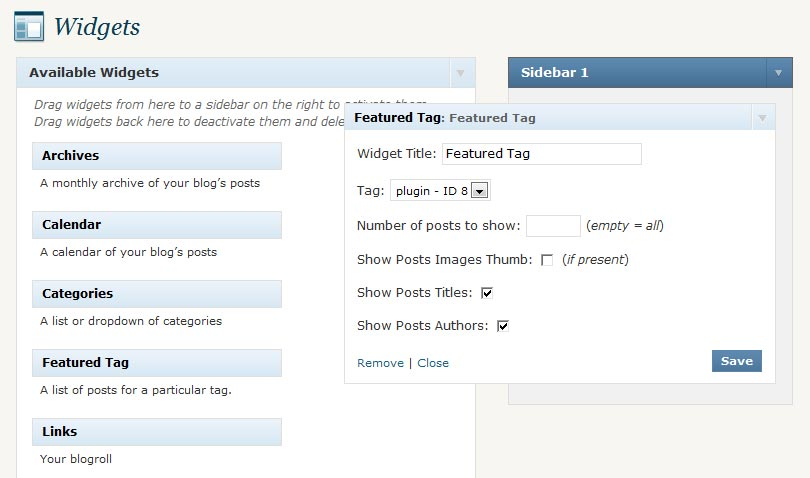
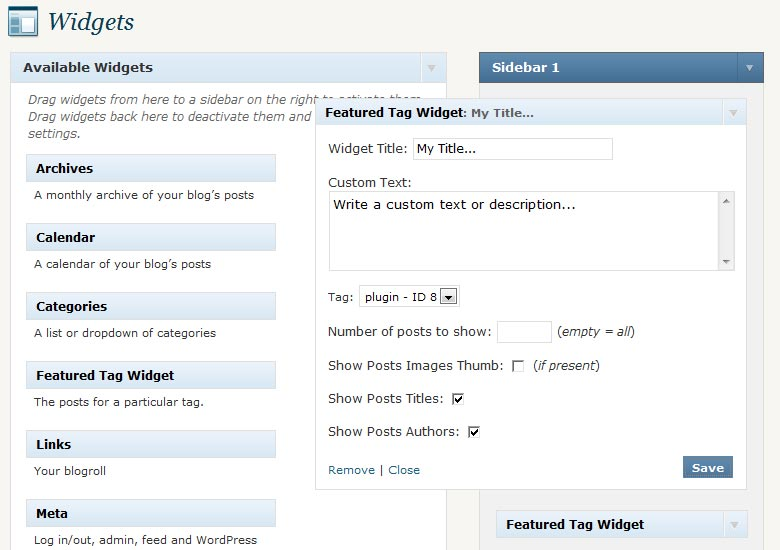
git-svn-id: https://plugins.svn.wordpress.org/featured-tag-widget/trunk@186028 b8457f37-d9ea-0310-8a92-e5e31aec5664

diff --git a/featured-tag-widget.php b/featured-tag-widget.php
@@ -2,9 +2,9 @@
 /*
 Plugin Name: Featured Tag Widget
 Plugin URI: http://wordpress.org/extend/plugins/featured-tag-widget/
-Description: This widget plugin shows a list of posts for a particular Tag in your sidebar. You can also add multiple instances of this widget. This plugin gives you full control on the widget with these options: custom widget Title (or no Title), the Featured Tag selection (obviously required), how many posts for the featured Tag to show for each instance of the widget, the posts informations to show (image thumbnail, title, author). 
+Description: This widget plugin shows a list of posts for a particular Tag in your sidebar with many options. You can also add multiple instances of this widget. This plugin gives you full control on the widget with these options: custom widget Title (or no Title), custom text for the description of the content or whatever, the Featured Tag selection (obviously required to show posts content), how many posts for the featured Tag to show for each instance of the widget, the posts informations to show (image thumbnail, title, author). 
 Author: Andrea Developer
-Version: 0.6
+Version: 0.7
 Author URI: http://wordpress.org/extend/plugins/featured-tag-widget/
 
 This program is free software; you can redistribute it and/or
@@ -43,7 +43,8 @@ function widget_ftwp( $args, $widget_args = 1 ) {
         if ( !isset($options[$number]) )
                 return;
 
-        $featuredtag = $options[$number]['tag'];
+        $customtext = $options[$number]['customtext'];
+		$featuredtag = $options[$number]['tag'];
 		//$nposts = $options[$number]['nposts'];
         $nposts = empty($options[$number]['nposts']) ? __('-1') : $options[$number]['nposts'];		
 		$showimage = $options[$number]['showimage'];
@@ -58,13 +59,18 @@ function widget_ftwp( $args, $widget_args = 1 ) {
 
 		//-------------------------------------------------- *  The loop START
 			  
-			  echo $before_widget;
+			  //echo $before_widget;
                if ($title){ 
 					echo $before_title . $title . $after_title .'';
-               } 			  
+               } 			
+			   
+            // write Custom Text Area    
+			if ($customtext){ ?>
+				<div class="featured_tag_post"><?php echo $customtext; ?><br /><br /></div>
+			  <?php } 		   
 			  		  		  		  
 			// set $my_tag as featured tag
-			$all_tags = get_tags(); 
+			 $all_tags = get_tags(); 
 				foreach($all_tags as $the_tag):
 					if ($the_tag->term_id==$featuredtag) {
 					   $my_tag = $the_tag->slug;				   
@@ -90,7 +96,7 @@ function widget_ftwp( $args, $widget_args = 1 ) {
                         <?php if ($showauthor){ ?>
                             <span class="byline"><em><?php the_author_posts_link(); ?></em></span><br />
                         <?php } ?>
-                        <br />             
+                        <br />         
                     </div>
 				<?php } ?>
 
@@ -100,7 +106,7 @@ function widget_ftwp( $args, $widget_args = 1 ) {
               
            
           <?php
-          echo $after_widget;
+          //echo $after_widget;
 		  
 		//-------------------------------------------------- *  The loop END
 }
@@ -151,15 +157,17 @@ function widget_ftwp_control( $widget_args = 1 ) {
                         // compile data from $widget_ftwp_instance
                         if ( !isset($widget_ftwp_instance['tag']) && isset($options[$widget_number]) ) // user clicked cancel
                                 continue;
-                        $featuredtag = wp_specialchars( $widget_ftwp_instance['tag'] );
-                        $title = strip_tags(stripslashes($widget_ftwp_instance['title'])); 										 
+                        
+                        $title = strip_tags(stripslashes($widget_ftwp_instance['title'])); 
+						$customtext = strip_tags(stripslashes($widget_ftwp_instance['customtext'])); 
+						$featuredtag = wp_specialchars( $widget_ftwp_instance['tag'] );
 						$nposts = $widget_ftwp_instance['nposts'];	
 						$nposts = preg_replace("/[^0-9]/i", "", $nposts);  // numbers only
 						$showimage = isset( $widget_ftwp_instance['showimage'] ) ? $widget_ftwp_instance['showimage'] : 0;
 						$showtitle = isset( $widget_ftwp_instance['showtitle'] ) ? $widget_ftwp_instance['showtitle'] : 0;	
 						$showauthor = isset( $widget_ftwp_instance['showauthor'] ) ? $widget_ftwp_instance['showauthor'] : 0;						
 													 						
-                        $options[$widget_number] = array( 'tag' => $featuredtag, 'title' => $title, 'nposts' => $nposts, 'showimage' => $showimage, 'showtitle' => $showtitle, 'showauthor' => $showauthor );  						// Even simple widgets should store stuff in array, rather than in scalar
+                        $options[$widget_number] = array( 'customtext' => $customtext, 'tag' => $featuredtag, 'title' => $title, 'nposts' => $nposts, 'showimage' => $showimage, 'showtitle' => $showtitle, 'showauthor' => $showauthor );  						// Even simple widgets should store stuff in array, rather than in scalar
                 }
 
                 update_option('widget_ftwp', $options);
@@ -173,6 +181,7 @@ function widget_ftwp_control( $widget_args = 1 ) {
                 $number = '%i%';
         } else {
                 $title = htmlspecialchars($options[$number]['title'], ENT_QUOTES);
+				$customtext = htmlspecialchars($options[$number]['customtext'], ENT_QUOTES);
                 $featuredtag = attribute_escape($options[$number]['tag']);				
                 $featuredtag = htmlspecialchars($options[$number]['tag'], ENT_QUOTES);
 				$nposts = stripslashes($options[$number]['nposts']);
@@ -197,6 +206,13 @@ function widget_ftwp_control( $widget_args = 1 ) {
         </label>
     </p>
     <p>
+    
+    <p style="text-align:left;">
+       <label for="widget-featured-tag-customtext-<?php echo $number; ?>"><?php echo __('Custom Text:'); ?>
+       <textarea style="width: 100%; height: 80px;" id="widget-featured-tag-customtext-<?php echo $number; ?>" name="widget-featured-tag[<?php echo $number; ?>][customtext]"><?php echo $customtext; ?></textarea>
+        </label>
+    </p>
+        
 	<?php $all_tags = get_tags('orderby=name&order=ASC'); ?>      		    
 	<?php if ( $all_tags ) {  ?>
 		 <label for="widget-featured-tag-tag-<?php echo $number; ?>"><?php echo __('Tag:', 'widgets'); ?>
@@ -207,29 +223,34 @@ function widget_ftwp_control( $widget_args = 1 ) {
          </select>
         </label>                                
         </p> 
+        
         <p style="text-align:left;">
            <label for="widget-featured-tag-n-<?php echo $number; ?>"><?php echo __('Number of posts to show:'); ?>
            <input size="5" id="widget-featured-tag-n-<?php echo $number; ?>" value="<?php echo $nposts; ?>" name="widget-featured-tag[<?php echo $number; ?>][nposts]"></input> (<i>empty = all</i>)
             </label>
         </p> 
+        
         <p style="text-align:left;">
            <label for="widget-featured-tag-show-image-<?php echo $number; ?>"><?php echo __('Show Posts Images Thumb:'); ?>       
            <input type="checkbox" id="widget-featured-tag-show-image-<?php echo $number; ?>" name="widget-featured-tag[<?php echo $number; ?>][showimage]" 
             <?php checked( $showimage,true ); ?>  /></input> (<i>if present</i>)
             </label>
         </p>    
+        
         <p style="text-align:left;">
            <label for="widget-featured-tag-show-title-<?php echo $number; ?>"><?php echo __('Show Posts Titles:'); ?>       
            <input type="checkbox" id="widget-featured-tag-show-title-<?php echo $number; ?>" name="widget-featured-tag[<?php echo $number; ?>][showtitle]" 
             <?php checked( $showtitle,true ); ?>  /></input>    
             </label>
         </p>     
+        
         <p style="text-align:left;">
            <label for="widget-featured-tag-show-author-<?php echo $number; ?>"><?php echo __('Show Posts Authors:'); ?>       
            <input type="checkbox" id="widget-featured-tag-show-author-<?php echo $number; ?>" name="widget-featured-tag[<?php echo $number; ?>][showauthor]" 
             <?php checked( $showauthor,true ); ?>  /></input>
             </label>
         </p>    
+        
 	<?php } else { echo 'Tag: No Tag found ( <i>Insert at least one Tag in any post</i> )'; }?>           
     <input type="hidden" id="widget-featured-tag-submit-<?php echo $number; ?>" name="widget-featured-tag[<?php echo $number; ?>][submit]" value="1" />
 <?php 
@@ -242,9 +263,9 @@ function widget_ftwp_register() {
         if ( !$options = get_option('widget_ftwp') )
                 $options = array();
 
-        $widget_ops = array('classname' => 'widget_ftwp', 'description' => __('A list of posts for a particular tag.'));
+        $widget_ops = array('classname' => 'widget_ftwp', 'description' => __('The posts for a particular tag.'));
         $control_ops = array('width' => 400, 'height' => 350, 'id_base' => 'ftwp');
-        $name = __('Featured Tag');
+        $name = __('Featured Tag Widget');
 
         $registered = false;
         foreach ( array_keys($options) as $o ) {
@@ -271,7 +292,8 @@ add_action( 'widgets_init', 'widget_ftwp_register' );
 
 
 
-//-------------------------------------------------- * Shows image thumbnail(for width & height refer to your wordpress/admin/settings/media)
+//-------------------------------------------------- * Shows image thumbnail (for width & height refer to your wordpress/admin/settings/media)
+
 function get_thumb_url() { 
   global $post;
 
